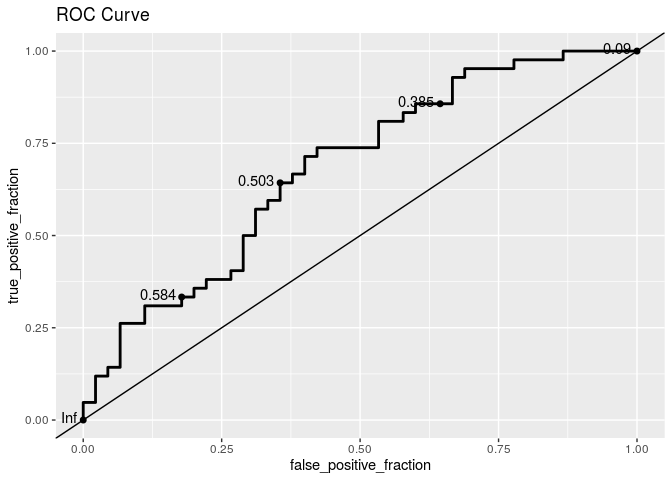
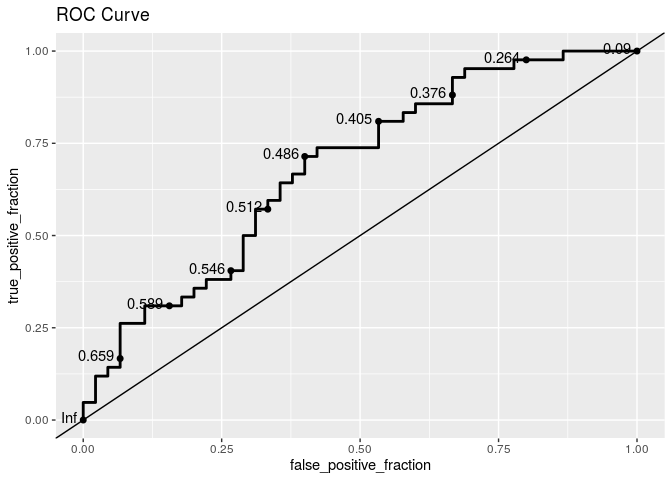
Finished with HW 05!

diff --git a/hw-05-logistic.md b/hw-05-logistic.md
@@ -64,17 +64,15 @@ The odds ratios for successful penalty kicks for behind versus tied is
 
 The odds of children in day care centers getting nightly cough is
 expected to be, on average, 1.89 times the odds of children in home care
-getting nightly cough. We are 95% confident that the true odds ratio
-lies between 1.34 and 1.67, meaning we are 95% confident that the odds
-of children in day care centers getting nightly cough is 1.34 to 1.67
-times the odds of children in home care getting nightly cough.
+getting nightly cough. We are 95% confident that the interval 1.34 to
+1.67 contains the true odds ratio of children getting nightly cough in
+day care centers vs. in home care centers.
 
 The odds of children getting a blocked or runny nose without common cold
 in day care is expected to be, on average, 1.55 times the odds of
-getting it in home care. We are 95% confident that the true odds ratio
-lies between 1.07 and 1.61, meaning we are 95% confident that the odds
-of children getting a blocked or runny nose without common cold in day
-care is 1.07 to 1.61 times the odds of getting it in home care.
+getting it in home care. We are 95% confident that the interval 1.07 to
+1.61 contains the true odds ratio of children getting blocked or runny
+nose without a common cold in day care centers vs. in home care centers.
 
 ### Question 3
 
@@ -149,6 +147,12 @@ mn08 <- mn08 %>%
 ```
 
 ``` r
+ggplot(data = mn08, mapping = aes(x = factor(obama_win), stat = "identity")) + geom_bar() + labs(title = "Distribution of Whether Obama Won", x = "Obama Majority Win", y = "Proportion")
+```
+
+![](hw-05-logistic_files/figure-gfm/bar-1.png)<!-- -->
+
+``` r
 mn08 %>%
   count(obama_win) %>%
   mutate(prop = n/sum(n))
@@ -191,13 +195,13 @@ skim(mn08)
     ##  n obs: 87 
     ##  n variables: 14 
     ## 
-    ## ── Variable type:factor ───────────────────────────────────────────────────────────
+    ## ── Variable type:factor ──────────────────────────────────────────────────────
     ##  variable missing complete  n n_unique                     top_counts
     ##    County       0       87 87       87 Ait: 1, Ano: 1, Bec: 1, Bel: 1
     ##  ordered
     ##    FALSE
     ## 
-    ## ── Variable type:integer ──────────────────────────────────────────────────────────
+    ## ── Variable type:integer ─────────────────────────────────────────────────────
     ##     variable missing complete  n     mean       sd    p0     p25   p50
     ##       McCain       0       87 87 14659.77 30265.89   843  2815.5  6315
     ##     medHHinc       0       87 87 47813.24  9902.28 34503 41954   44602
@@ -209,7 +213,7 @@ skim(mn08)
     ##  11812 420958 ▇▁▁▁▁▁▁▁
     ##  21611 652015 ▇▁▁▁▁▁▁▁
     ## 
-    ## ── Variable type:numeric ──────────────────────────────────────────────────────────
+    ## ── Variable type:numeric ─────────────────────────────────────────────────────
     ##     variable missing complete  n  mean    sd    p0   p25   p50   p75
     ##   Gini_Index      40       47 87  0.4   0.03  0.34  0.39  0.4   0.42
     ##   medAge2000       0       87 87 38.13  3.58 29.9  35.2  38.4  40.65
@@ -301,39 +305,96 @@ variables.
 ggplot(data = mn08, mapping = aes(x = medHHinc)) + geom_histogram() + labs(title = "Distribution of Median Household Income")
 ```
 
-![](hw-05-logistic_files/figure-gfm/histograms-1.png)<!-- -->
+![](hw-05-logistic_files/figure-gfm/medhhinc-hist-1.png)<!-- -->
+
+``` r
+mn08 %>%
+  summarise(med = median(medHHinc), IQR = IQR(medHHinc))
+```
+
+    ##     med  IQR
+    ## 1 44602 7948
+
+The distribution of median household income is unimodal and skewed
+right, centered around $44,602 with an IQR of $7,948. There appear to be
+potential outliers for counties with very high median household
+incomes.
 
 ``` r
 ggplot(data = mn08, mapping = aes(x = unemp_rate)) + geom_histogram() + labs(title = "Distribution of Unemployment Rate")
 ```
 
-![](hw-05-logistic_files/figure-gfm/histograms-2.png)<!-- -->
+![](hw-05-logistic_files/figure-gfm/unemp-hist-1.png)<!-- -->
+
+``` r
+mn08 %>%
+  summarise(med = median(unemp_rate), IQR = IQR(unemp_rate))
+```
+
+    ##   med  IQR
+    ## 1 5.7 1.75
+
+The distribution of unemployment rate is unimodal and skewed right,
+centered around 5.7% with an IQR of 1.75%. There appear to be potential
+outliers for counties with high unemployment
+rates.
 
 ``` r
 ggplot(data = mn08, mapping = aes(x = pct_poverty)) + geom_histogram() + labs(title = "Distribution of People Living Below Poverty Line")
 ```
 
-![](hw-05-logistic_files/figure-gfm/histograms-3.png)<!-- -->
+![](hw-05-logistic_files/figure-gfm/pov-hist-1.png)<!-- -->
+
+``` r
+mn08 %>%
+  summarise(med = median(pct_poverty), IQR = IQR(pct_poverty))
+```
+
+    ##    med IQR
+    ## 1 10.3 3.2
+
+The distribution of percent of people living below the poverty line is
+unimodal and relatively normal, centered around 10.3% with an IQR of
+3.2%. There do not appear to be any
+outliers.
 
 ``` r
 ggplot(data = mn08, mapping = aes(x = medAge2000)) + geom_histogram() + labs(title = "Distribution of Median Age in 2000")
 ```
 
-![](hw-05-logistic_files/figure-gfm/histograms-4.png)<!-- -->
+![](hw-05-logistic_files/figure-gfm/age-hist-1.png)<!-- -->
+
+``` r
+mn08 %>%
+  summarise(med = median(medAge2000), IQR = IQR(medAge2000))
+```
+
+    ##    med  IQR
+    ## 1 38.4 5.45
+
+The distribution of median age in 2000 is unimodal and relatively
+normal, centered around 38.4 with an IQR of 5.45. There do not appear to
+be any potential
+outliers.
 
 ``` r
 ggplot(data = mn08, mapping = aes(x = total_votes)) + geom_histogram() + labs(title = "Distribution of Total Votes")
 ```
 
-![](hw-05-logistic_files/figure-gfm/histograms-5.png)<!-- -->
+![](hw-05-logistic_files/figure-gfm/votes-hist-1.png)<!-- -->
 
-The distributions for median household income and unemployment rate are
-skewed right due to the relatively fewer counties with high income and
-high unemployment rate, some of which are potential outliers. The
-distribution for total votes is strongly skewed right due to a few
-cities in Minnesota that are very high outliers. The distributions for
-people living below poverty line and median age are relatively normally
-distributed.
+``` r
+mn08 %>%
+  summarise(med = median(total_votes), IQR = IQR(total_votes))
+```
+
+    ##     med   IQR
+    ## 1 11581 15908
+
+The distribution for total votes is strongly skewed right, centered at
+11,581 with an IQR of 15,908. There are potential high outliers from
+counties in Minnesota that have a large number of total votes, possibly
+due to the counties containing major cities.
 
 ##### Bivariate Analysis
 
@@ -387,10 +448,12 @@ and total votes, but had higher medians for percent of people living
 below poverty line and median age in 2000. The spreads for the predictor
 variables (indicated by IQR) are relatively equal for all variables
 except median age in 2000, where median age for counties where Obama won
-has a much wider
-spread.
+has a much wider spread.
 
 #### Model Fitting
+
+Fit a full logistic regression
+model:
 
 ``` r
 full_model <- glm(obama_win ~ pct_rural + medHHinc + unemp_rate + pct_poverty + medAge2000 + total_votes, data = mn08, family = binomial)
@@ -451,12 +514,14 @@ regfit_backward <- step(full_model, direction = "backward")
     ## - pct_poverty  1   113.76 121.76
 
 We conduct backwards selection using AIC to select the model with the
-lowest AIC. In this case, since the number of predictor variables is not
-greater than 8, using BIC (which penalizes for n\>8 to favor more
-parsimonious models) would not make much of a difference. This final
-model includes the predictor variables medAge2000, unemp\_rate,
-total\_votes, and
-pct\_poverty.
+lowest AIC (AIC = 119.14). In this case, since the number of predictor
+variables is not greater than 8, using BIC (which penalizes for n\>8 to
+favor more parsimonious models) would not make much of a difference.
+This final model includes the predictor variables medAge2000,
+unemp\_rate, total\_votes, and pct\_poverty.
+
+Fit our final logistic regression
+model:
 
 ``` r
 final_model <- glm(obama_win ~ medAge2000 + unemp_rate + total_votes + pct_poverty, data = mn08)
@@ -491,6 +556,9 @@ tidy(vif(final_model))
     ## 2 unemp_rate   1.12
     ## 3 total_votes  1.11
     ## 4 pct_poverty  1.14
+
+We also look at the binned residual plots of predicted probabilities and
+predictor variables.
 
 ``` r
 model_aug <- augment(final_model)
@@ -546,20 +614,27 @@ arm::binnedplot(x = model_aug$pct_poverty,
 
 ![](hw-05-logistic_files/figure-gfm/poverty-resid-1.png)<!-- -->
 
-The binned residuals vs. predicted probabilities and binned residuals
-vs. medAge2000, unemp\_rate, and pct\_poverty are randomly scattered
-around 0 and have small magnitudes close to 0 so they do not violate
-linearity. The binned residuals vs. total\_votes has a high outlier
-which could be evaluated in further studies. However, overall, the final
-model does not violate any assumptions, making it an appropriate fit for
-the data.
+Linearity is satisfied because the binned residuals vs. predicted
+probabilities and binned residuals vs. medAge2000, unemp\_rate, and
+pct\_poverty are randomly scattered around 0 and have small magnitudes
+close to 0 (there are no distinguishible patterns in the binned residual
+plots). There are no categorical predictor variables in our final model,
+so we do not need to check the mean residual values for any predictors.
+The binned residuals vs. total\_votes has a high outlier which could be
+evaluated in further studies. However, overall, the final model does not
+violate any assumptions, making it an appropriate fit for the data.
+
+Independence is satisfied because in Minnesota, counties do not affect
+each others’ votes. Nationally, there may be factors causing certain
+states to be biased in political leanings and candidate votes, but in
+such a concentrated state, there are no dependencies between counties.
 
 #### Analysis
 
 ``` r
 library(plotROC)
 roccurve <- ggplot(model_aug, aes(d = as.numeric(obama_win), m = .fitted)) +
-geom_roc(n.cuts = 5, labelround = 3) + geom_abline(intercept = 0) + labs(title = "ROC Curve")
+geom_roc(n.cuts = 10, labelround = 3) + geom_abline(intercept = 0) + labs(title = "ROC Curve")
 roccurve
 ```
 
@@ -571,24 +646,22 @@ calc_auc(roccurve)$AUC
 
     ## [1] 0.6814815
 
-The area under the ROC curve indicates how likely you are able to
-differentiate between trues and falses (predicting a win correctly
-vs. predicting a win incorrectly). A logistic model fits well if the
-AUC is close to 1. For predicting situations as complex as political
-elections, 0.68 is a relatively high proportion, showing the model
-decently differentiates between predicting wins.
+Since the AUC value is 0.68 (which is more than 0.5 and fairly close to
+1), the logistic model does a relatively good job of predicting whether
+or not Obama will win.
 
-From the model, we decide on a threshold probability of 0.503, with a
-false positive rate (incorrectly predict Obama’s win) of 0.4 and a true
-positive rate (correctly predict Obama’s win) of 0.6 because this is the
-point on the ROC curve closest to the top left corner (true positive
-rate of 1) where all wins for Obama are predicted correctly.
+From the model, we decide on a threshold probability of 0.486, with a
+false positive rate (incorrectly predict Obama’s win) of about 0.4 and a
+true positive rate (correctly predict Obama’s win) of about 0.7 because
+this is the point on the ROC curve closest to the top left corner (true
+positive rate of 1, where all wins for Obama are predicted correctly),
+with high sensitivity and low 1-specificity.
 
 In the 2020 election, if the predicted probability of the Democratic
-candidate winning in a county is above the threshold of 0.503, the
+candidate winning in a county is above the threshold of 0.486, the
 candidate should allocate resources to trying to win that county.
 However, if the predicted probability of the Democratic candidate
-winning in a county is below 0.503, the candidate should allocate little
+winning in a county is below 0.486, the candidate should allocate little
 to no resources since they are not likely to win the majority vote.
 
 ### Overall
